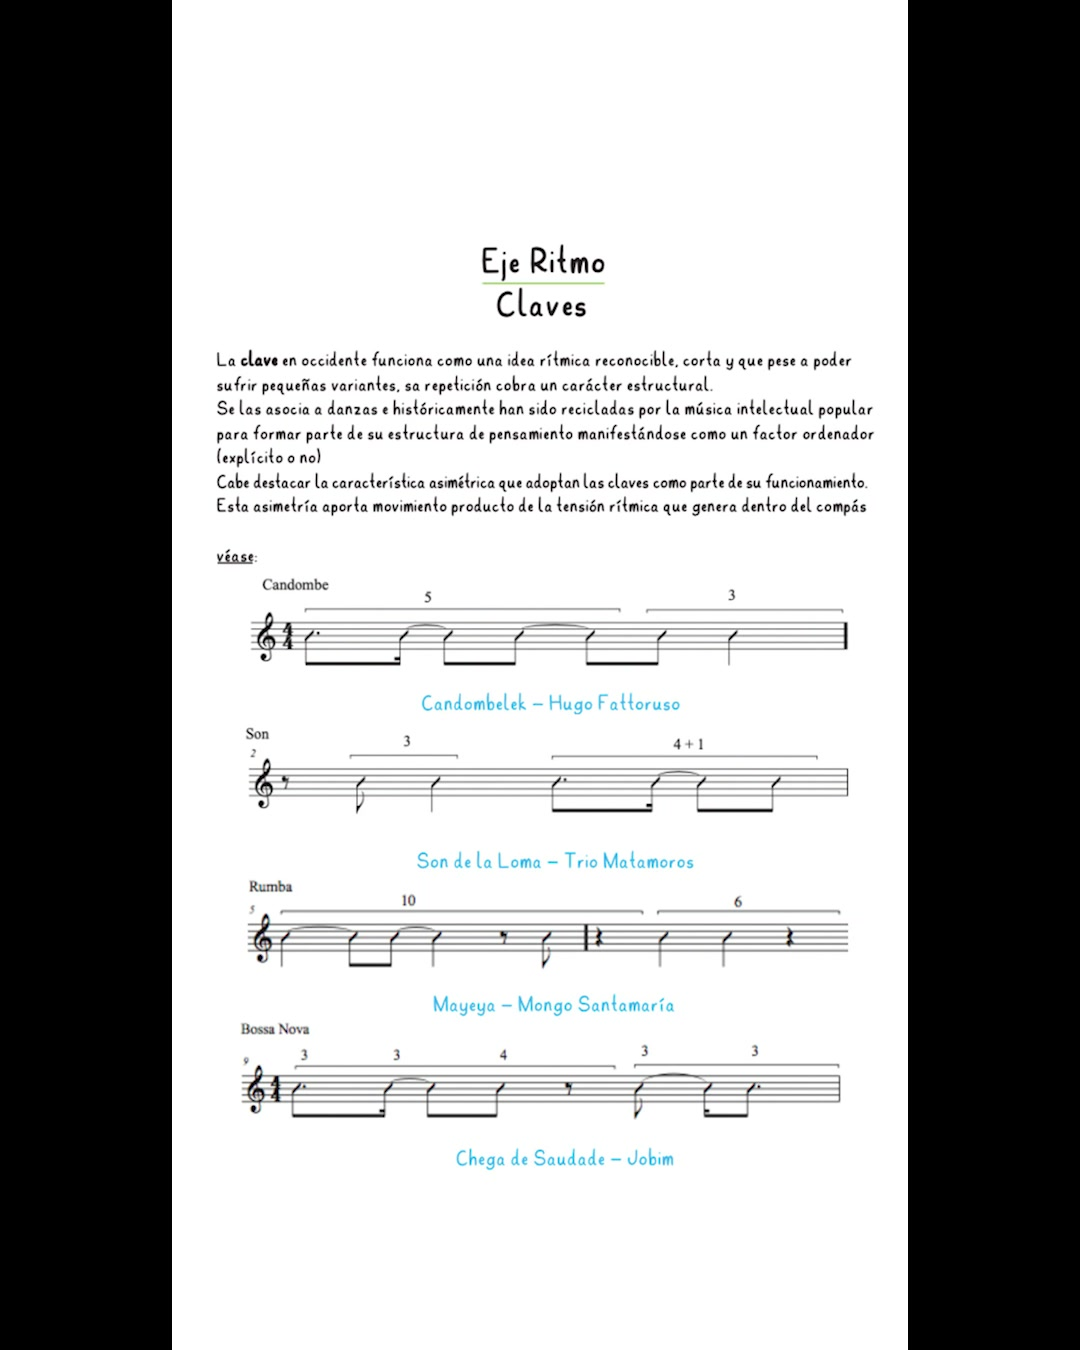
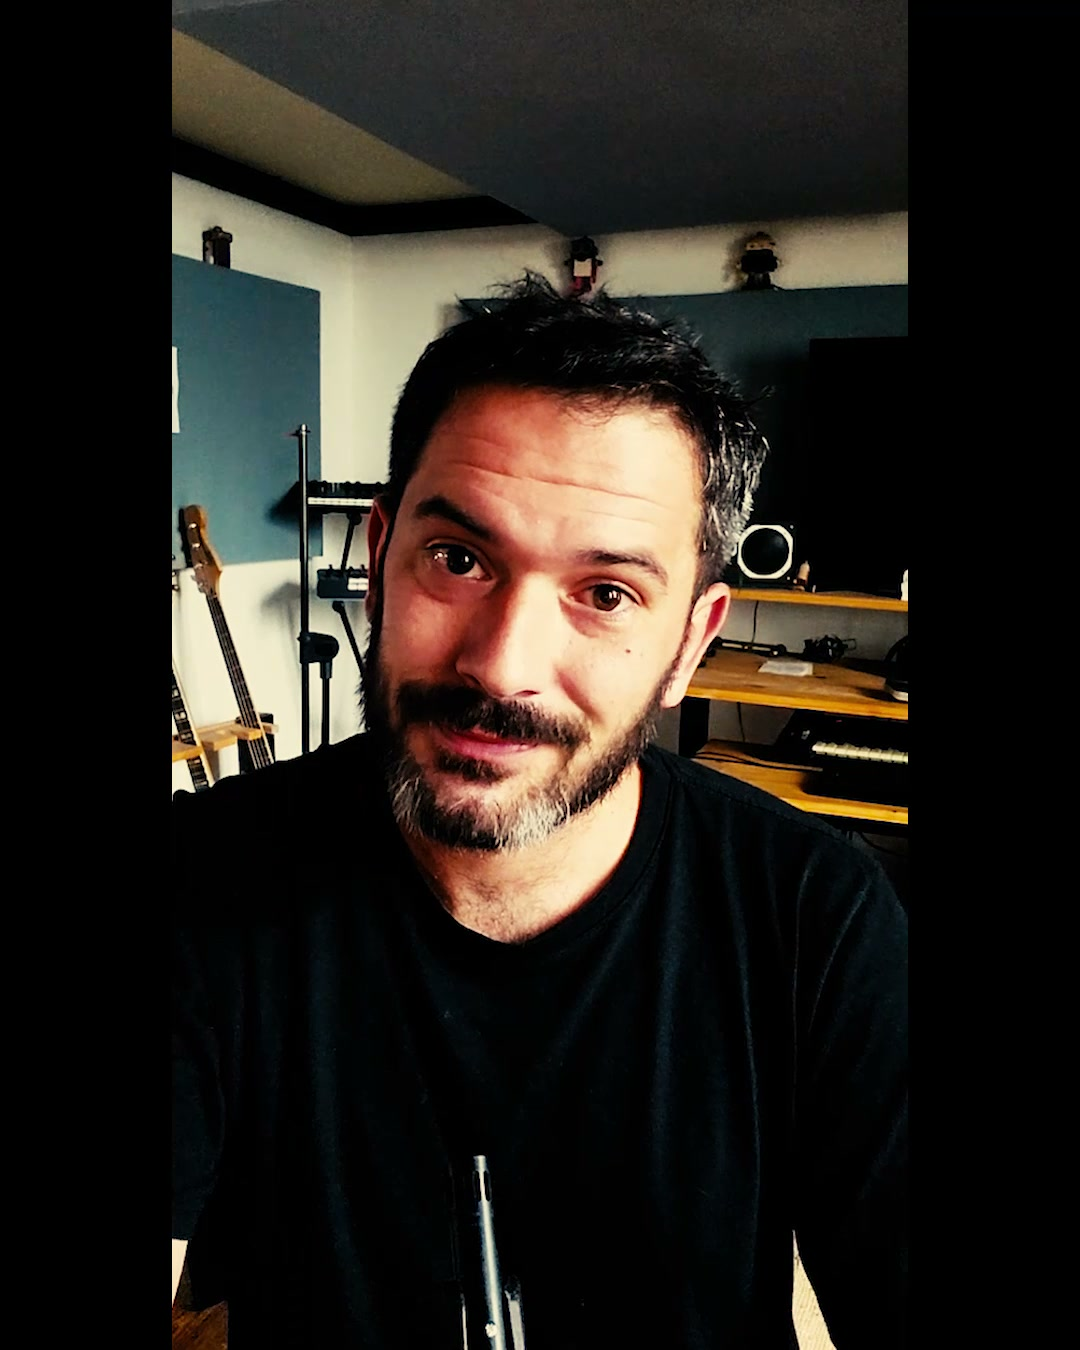
feat: cambio imagenes carusel taller

diff --git a/pages/talleres.tsx b/pages/talleres.tsx
@@ -33,7 +33,7 @@ const Workshops = () => {
       <section className="bg-gray-100 dark:bg-gray-900">
         <div className="relative h-48 w-full bg-white sm:h-80 md:h-[28rem] lg:h-[32rem]">
           <Image
-            src="/images/workshops/taller-hero-2.png"
+            src="/images/workshops/carousel-1.jpg"
             alt="Next.js Enterprise Boilerplate"
             layout="fill"
             objectFit="contain"
